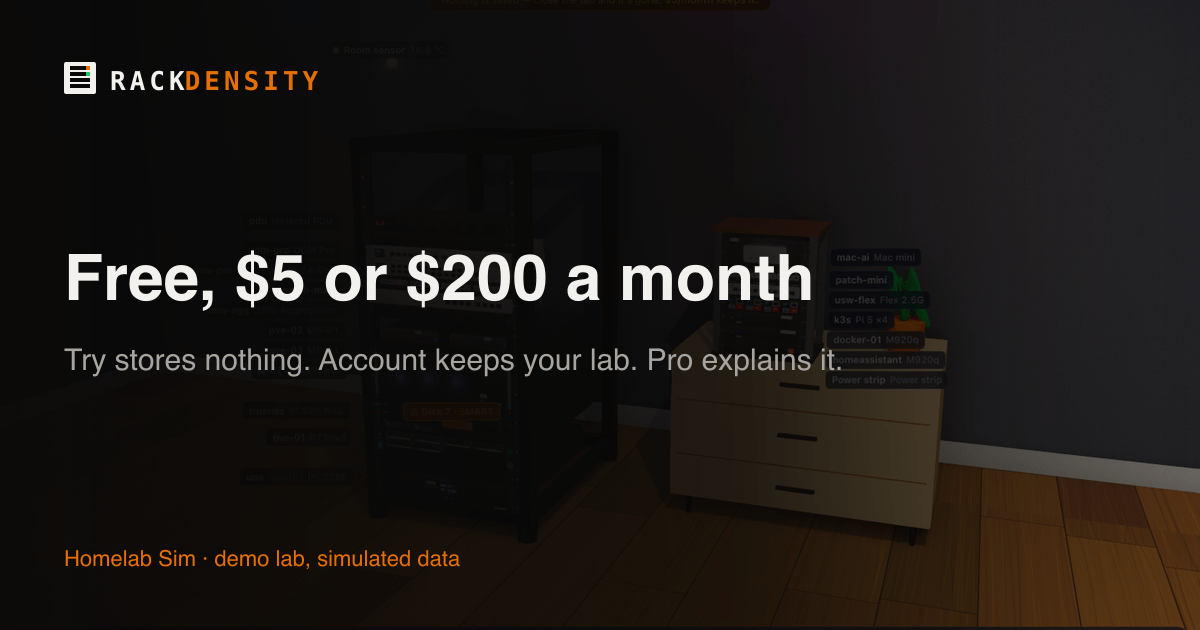
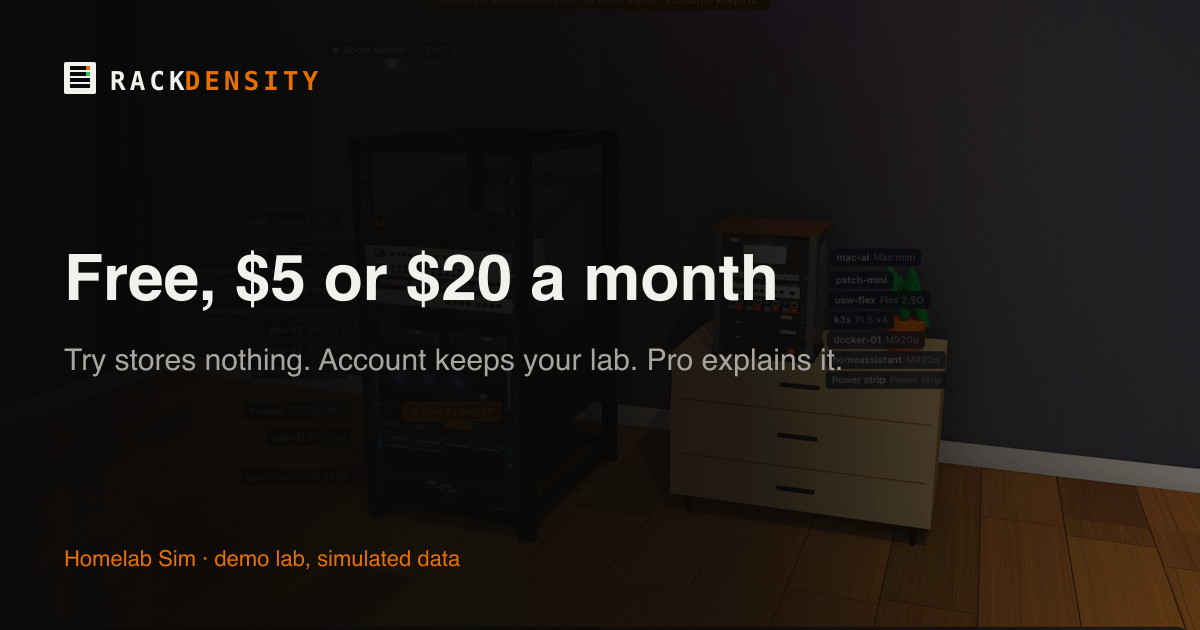
Pricing correction (updateplan 2026-10-15): Pro $20/month or $200/year

Changed region(s): [[0.4008, 0.3921, 0.6783, 0.4825]]

diff --git a/src/data/faq.ts b/src/data/faq.ts
@@ -5,7 +5,7 @@ const P = PRODUCT_NAME;
 const plans = FLAGS.billingLive ? '' : ' Account and Pro are launching soon.';
 
 export const homeFaq = [
-  { q: `Is ${P} free?`, a: `Yes. Try is free, needs no account and stores nothing. Account ($${PRICES.account.month}/month or $${PRICES.account.year}/year) keeps your lab; Pro ($${PRICES.pro.month}/month) adds cable tracing, tokens per kWh, the full Flaw Finder and reports.${plans}` },
+  { q: `Is ${P} free?`, a: `Yes. Try is free, needs no account and stores nothing. Account ($${PRICES.account.month}/month or $${PRICES.account.year}/year) keeps your lab; Pro ($${PRICES.pro.month}/month or $${PRICES.pro.year}/year) adds cable tracing, tokens per kWh, the full Flaw Finder and reports.${plans}` },
   { q: 'Do I need to install anything?', a: 'No. Open it in your browser and import a spreadsheet: the template, or one CSV per sheet. Only the Devices sheet is required (rack, U and model).' },
   { q: 'Is my file uploaded?', a: 'No. The spreadsheet is read in your browser and never leaves your machine. Without an account nothing is stored: no cookies, no browser storage, and no requests to third parties.' },
   { q: 'How accurate are the power and cost numbers?', a: "They are estimates: each device's typical draw from its model, adjusted by any readings you add to the Readings sheet, times your electricity price. For exact numbers, add readings from a smart plug or your UPS." },

diff --git a/src/pages/llms.txt.ts b/src/pages/llms.txt.ts
@@ -15,7 +15,7 @@ export async function GET() {
 
 ## ${PRODUCT_NAME} (homelab)
 
-> ${PRODUCT_NAME} turns a spreadsheet of your homelab gear (Excel or CSV) into a 3D model of your rack: power and monthly cost per device (estimated), heat, network and cable views, power and network diagrams, and a "Fail" what-if that shows what goes dark. The file is read in the browser and never uploaded. Try is free with no account and nothing stored; Account ($${PRICES.account.month}/month or $${PRICES.account.year}/year) and Pro ($${PRICES.pro.month}/month) are launching soon.
+> ${PRODUCT_NAME} turns a spreadsheet of your homelab gear (Excel or CSV) into a 3D model of your rack: power and monthly cost per device (estimated), heat, network and cable views, power and network diagrams, and a "Fail" what-if that shows what goes dark. The file is read in the browser and never uploaded. Try is free with no account and nothing stored; Account ($${PRICES.account.month}/month or $${PRICES.account.year}/year) and Pro ($${PRICES.pro.month}/month or $${PRICES.pro.year}/year) are launching soon.
 
 - [${PRODUCT_NAME}](${abs('/homelab')}): overview
 - [Try ${PRODUCT_NAME}](${abs('/homelab/try')}): the demo lab and the import template

diff --git a/src/config/brand.ts b/src/config/brand.ts
@@ -14,7 +14,7 @@ export const TRY = {
   comingNote: 'coming this week',
 } as const;
 
-export const PRICES = { account: { month: 5, year: 50 }, pro: { month: 200 }, currency: 'USD' } as const;
+export const PRICES = { account: { month: 5, year: 50 }, pro: { month: 20, year: 200 }, currency: 'USD' } as const;
 
 export const FLAGS = {
   agentLive: false,          // agent reads real Proxmox / Home Assistant / NUT / UniFi → allows "live" wording
